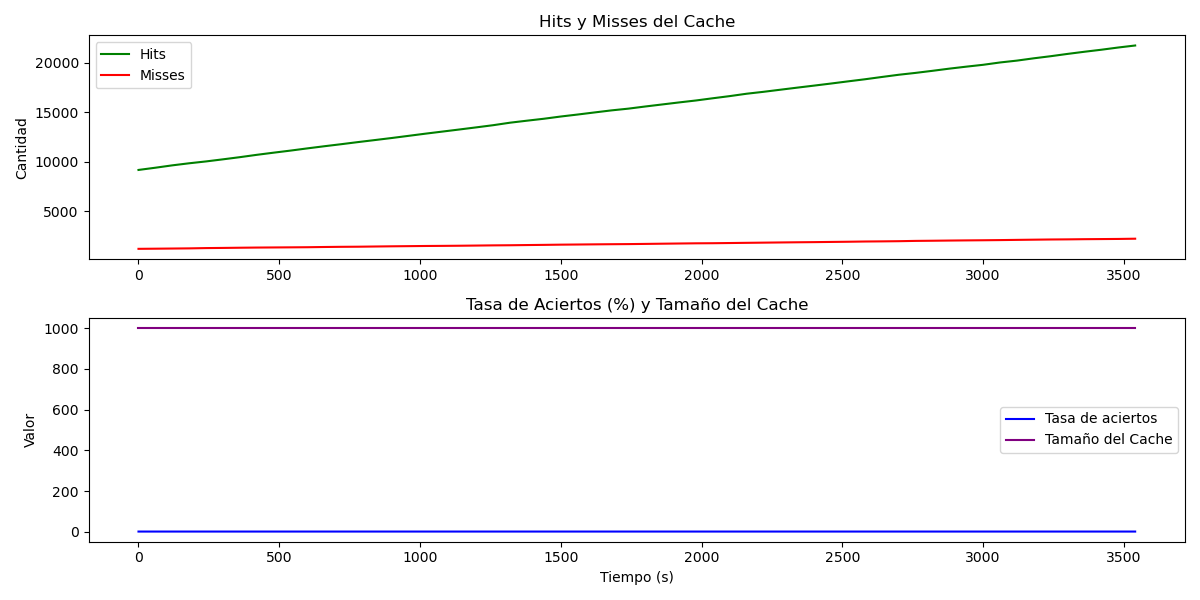
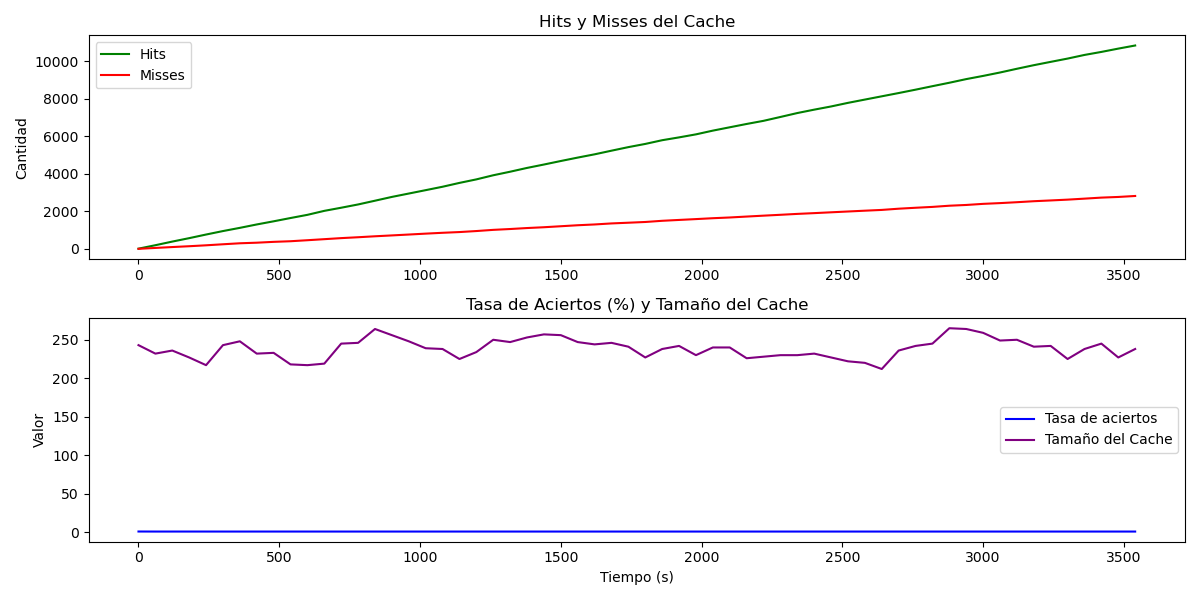
Implementación de Redis

diff --git a/cache/cache_app.py b/cache/cache_app.py
@@ -1,79 +1,74 @@
 from flask import Flask, jsonify
 from pymongo import MongoClient
+import redis
+import json
 import os
-from collections import OrderedDict, defaultdict
 import logging
 from datetime import datetime, timedelta
 
 start_time = datetime.utcnow()
-
 app = Flask(__name__)
 
-logging.basicConfig(
-    level=logging.INFO,
-    format='%(asctime)s - %(levelname)s - %(message)s',
-    handlers=[logging.StreamHandler()]
-)
+logging.basicConfig(level=logging.INFO, format='%(asctime)s - %(levelname)s - %(message)s')
 
-CACHE_SIZE = int(os.getenv("CACHE_SIZE", 1000))
-POLITICA = os.getenv("POLITICA_CACHE", "LRU").upper()
+# Configuración
+REDIS_HOST = os.getenv("REDIS_HOST", "redis")
+REDIS_PORT = int(os.getenv("REDIS_PORT", 6379))
+CACHE_TTL = int(os.getenv("CACHE_TTL", 300))  # segundos
+
+MONGO_HOST = os.getenv("MONGO_HOST", "almacenamiento")
+MONGO_PORT = int(os.getenv("MONGO_PORT", 27017))
+MONGO_USER = os.getenv("MONGO_USER", "root")
+MONGO_PASS = os.getenv("MONGO_PASS", "example")
+
+# Conexiones
+mongo_client = MongoClient(
+    host=MONGO_HOST,
+    port=MONGO_PORT,
+    username=MONGO_USER,
+    password=MONGO_PASS,
+    authSource="admin"
+)
+mongo_collection = mongo_client.trafico.alertas
+
+redis_client = redis.Redis(host=REDIS_HOST, port=REDIS_PORT, decode_responses=True)
 
 hit_count = 0
 miss_count = 0
 
-client = MongoClient(
-    host=os.getenv("MONGO_HOST", "almacenamiento"),
-    port=int(os.getenv("MONGO_PORT", 27017)),
-    username=os.getenv("MONGO_USER", "root"),
-    password=os.getenv("MONGO_PASS", "example"),
-    authSource="admin"
-)
-collection = client.trafico.alertas
-
-if POLITICA == "LFU":
-    cache = {}
-    frecuencias = defaultdict(int)
-else:  
-    cache = OrderedDict()
+def convert_datetime(obj):
+    if isinstance(obj, dict):
+        return {k: convert_datetime(v) for k, v in obj.items()}
+    elif isinstance(obj, list):
+        return [convert_datetime(elem) for elem in obj]
+    elif isinstance(obj, datetime):
+        return obj.isoformat()
+    else:
+        return obj
 
 @app.route("/evento/<id>", methods=["GET"])
 def get_evento(id):
-    global cache, hit_count, miss_count
+    global hit_count, miss_count
 
-    if id in cache:
+    # Intentar obtener desde Redis
+    cached = redis_client.get(id)
+    if cached:
         hit_count += 1
         logging.info(f"✅ HIT ({hit_count}) - ID: {id}")
+        return jsonify({"source": "cache", "evento": json.loads(cached)})
 
-        if POLITICA == "LFU":
-            frecuencias[id] += 1
-        else:
-            cache.move_to_end(id)
-
-        return jsonify({"source": "cache", "evento": cache[id]})
-
-    # Búsqueda en MongoDB
-    doc = collection.find_one({"_id": id})
-
+    # Si no está en Redis, consultar MongoDB
+    doc = mongo_collection.find_one({"_id": id})
     if not doc:
         return jsonify({"error": "No encontrado"}), 404
 
     miss_count += 1
     logging.info(f"❌ MISS ({miss_count}) - ID: {id}")
 
-    if len(cache) >= CACHE_SIZE:
-        if POLITICA == "LFU":
-            menos_usado = min(frecuencias, key=frecuencias.get)
-            del cache[menos_usado]
-            del frecuencias[menos_usado]
-        else:
-            cache.popitem(last=False)
-
-    cache[id] = doc
-    if POLITICA == "LFU":
-        frecuencias[id] = 1
+    # Guardar en Redis
+    redis_client.setex(id, CACHE_TTL, json.dumps(convert_datetime(doc)))
 
     return jsonify({"source": "mongo", "evento": doc})
-
 
 @app.route("/metrics")
 def metrics():
@@ -81,17 +76,16 @@ def metrics():
         total = hit_count + miss_count
         elapsed = datetime.utcnow() - start_time
         elapsed_str = str(timedelta(seconds=int(elapsed.total_seconds())))
-
         hit_rate_decimal = round(hit_count / total, 5) if total > 0 else 0
         hit_rate_percent = round(100 * hit_rate_decimal, 2)
 
         return jsonify({
-            "hits": int(hit_count),
-            "misses": int(miss_count),
+            "hits": hit_count,
+            "misses": miss_count,
             "hit_rate_decimal": hit_rate_decimal,
             "hit_rate_percent": f"{hit_rate_percent}%",
-            "cache_size": len(cache),
-            "cache_policy": POLITICA,
+            "cache_size": redis_client.dbsize(),
+            "cache_policy": f"Redis {os.getenv('POLITICA_CACHE')} TTL {CACHE_TTL}s",
             "total_requests": total,
             "uptime": elapsed_str
         })
@@ -99,7 +93,6 @@ def metrics():
         logging.exception("❌ Error en /metrics:")
         return jsonify({"error": str(e)}), 500
 
-
 if __name__ == "__main__":
-    logging.info(f"Ejecutando cache con política: {POLITICA}")
+    logging.info(f"Ejecutando cache con Redis en {REDIS_HOST}:{REDIS_PORT}, TTL={CACHE_TTL}s")
     app.run(host="0.0.0.0", port=5000)

diff --git a/generator/generator.py b/generator/generator.py
@@ -5,11 +5,14 @@ import requests
 import numpy as np
 from pymongo import MongoClient
 from scipy.stats import poisson, expon
+from collections import Counter
 
 logging.basicConfig(level=logging.INFO, format='%(asctime)s - %(message)s')
 
 class TrafficGenerator:
     def __init__(self):
+        self.counter = Counter()
+
         self.mongo_client = MongoClient(
             host=os.getenv("MONGO_HOST", "almacenamiento"),
             port=int(os.getenv("MONGO_PORT", 27017)),
@@ -43,6 +46,7 @@ class TrafficGenerator:
         return np.random.choice(self.ids, p=self.id_probabilidades)
 
     def consultar_api(self, id):
+        self.counter[id] += 1  # contar cada ID
         try:
             res = requests.get(f"{self.cache_url}/evento/{id}", timeout=5)
             if res.status_code == 200:
@@ -52,6 +56,10 @@ class TrafficGenerator:
                 logging.warning(f"ID {id} no encontrado")
         except Exception as e:
             logging.error(f"Error: {e}")
+
+        # Mostrar los 5 más usados cada 100 consultas
+        if sum(self.counter.values()) % 100 == 0:
+            logging.info(f"TOP 5 IDs más usados: {self.counter.most_common(5)}")
 
     def poisson_process(self):
         while True:

diff --git a/README.md b/README.md
@@ -8,28 +8,27 @@ docker-compose build
 docker-compose up       
 
 
-para ver las metricas
+para ver las metricas graficadas
 
 python graficar_metricas.py
 
 
 PRUEBAS
--Poisson + LRU
 
-docker compose down -v
-CACHE_POLICY=LRU DISTRIBUTION=poisson docker compose up --build
 
--Poisson + LFU
+# Poisson + LRU
+DISTRIBUTION=poisson CACHE_POLICY=allkeys-lru docker compose up --build
 
-docker compose down -v
-CACHE_POLICY=LFU DISTRIBUTION=poisson docker compose up --build
+# Poisson + LFU
+DISTRIBUTION=poisson CACHE_POLICY=allkeys-lfu docker compose up --build
 
--Exponential + LRU
+# Exponential + LRU
+DISTRIBUTION=exponential CACHE_POLICY=allkeys-lru docker compose up --build
 
-docker compose down -v
-CACHE_POLICY=LRU DISTRIBUTION=exponential docker compose up --build
+# Exponential + LFU
+DISTRIBUTION=exponential CACHE_POLICY=allkeys-lfu docker compose up --build
 
--Exponential + LFU
 
-docker compose down -v
-CACHE_POLICY=LFU DISTRIBUTION=exponential docker compose up --build
+
+
+ 
